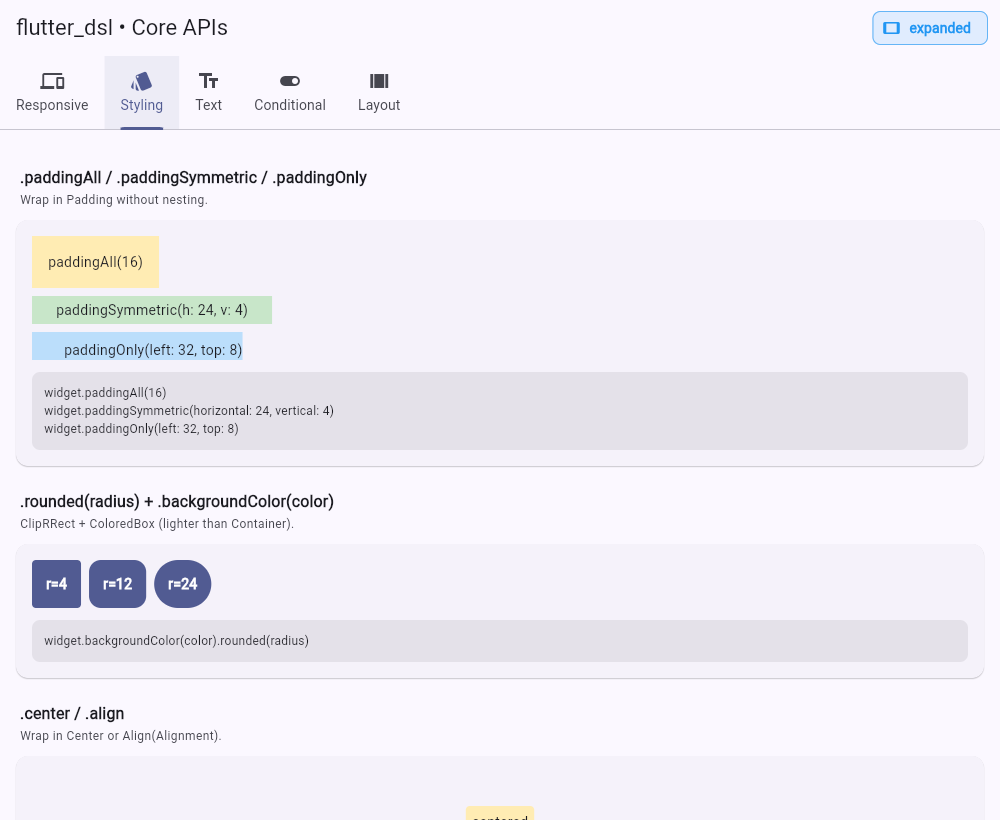
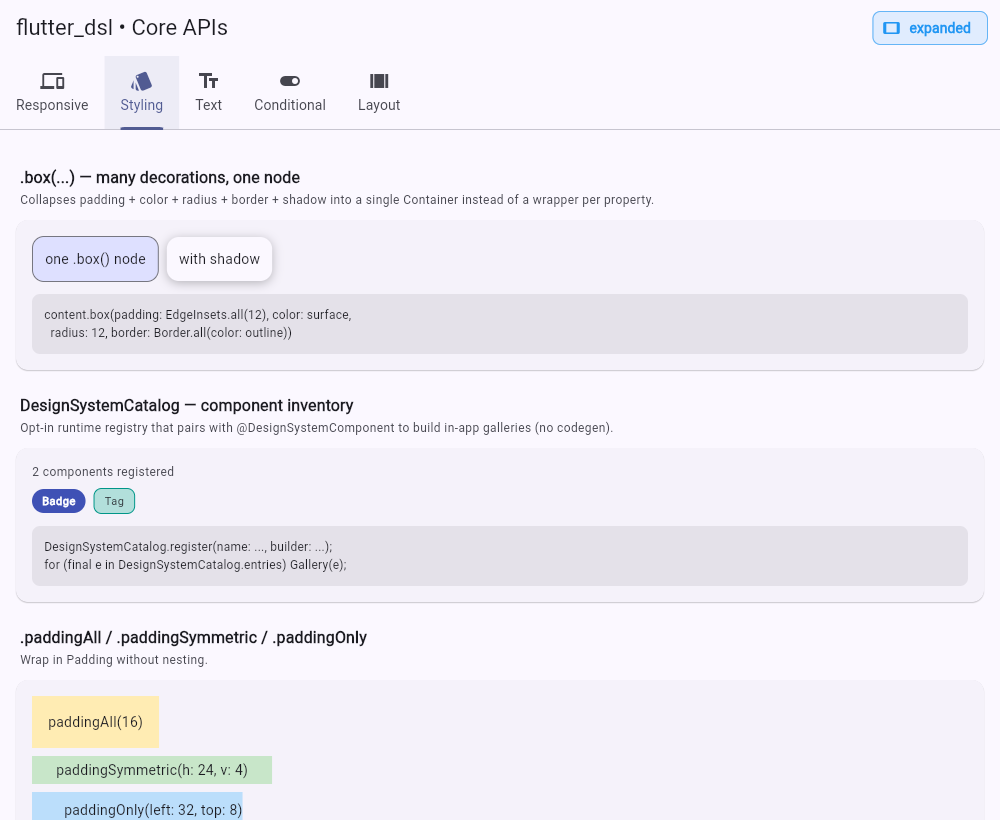
docs(example): showcase .box, design tokens, and catalog; refresh demo media
Wrap the example in DesignTokensScope and register catalog components; add demo
cards for .box(), a token+.box+Responsive.value card (visible in the GIF), and a
DesignSystemCatalog mini-gallery (visible in the Styling screenshot). Move the
"Why flutter_dsl?" section to the top and rewrite it around flutter_dsl's own
USP without naming competitors. Re-capture doc/demo.gif and doc/tab_styling.png.

diff --git a/example/lib/main.dart b/example/lib/main.dart
@@ -8,7 +8,38 @@
 import 'package:flutter/material.dart';
 import 'package:flutter_dsl/flutter_dsl.dart';
 
-void main() => runApp(const FlutterDslShowcase());
+void main() {
+  _registerShowcaseComponents();
+  runApp(const FlutterDslShowcase());
+}
+
+// Pairs with `@DesignSystemComponent`: registering components makes them
+// enumerable at runtime (e.g. to render an in-app gallery) — no codegen.
+void _registerShowcaseComponents() {
+  DesignSystemCatalog.register(
+    name: 'Badge',
+    category: 'feedback',
+    builder: (context) => 'Badge'
+        .labelSmall(context)
+        .fontWeight(FontWeight.bold)
+        .textColor(Colors.white)
+        .box(
+          padding: const EdgeInsets.symmetric(horizontal: 10, vertical: 4),
+          color: Colors.indigo,
+          radius: 999,
+        ),
+  );
+  DesignSystemCatalog.register(
+    name: 'Tag',
+    category: 'feedback',
+    builder: (context) => 'Tag'.labelSmall(context).box(
+          padding: const EdgeInsets.symmetric(horizontal: 10, vertical: 4),
+          color: Colors.teal.shade100,
+          radius: 8,
+          border: Border.all(color: Colors.teal),
+        ),
+  );
+}
 
 class FlutterDslShowcase extends StatelessWidget {
   const FlutterDslShowcase({super.key});
@@ -22,18 +53,21 @@ class FlutterDslShowcase extends StatelessWidget {
         colorScheme: ColorScheme.fromSeed(seedColor: Colors.indigo),
         useMaterial3: true,
       ),
-      // Wrap once so every descendant can call Responsive.* / .onMobile /
-      // .hideOnDesktop / .responsive / etc.
-      builder: (context, child) => ResponsiveScope(child: child!),
+      // Wrap once near the root: design tokens + the responsive scope (the
+      // single source of truth for breakpoints) for every descendant.
+      builder: (context, child) => DesignTokensScope(
+        tokens: const DesignTokens(),
+        child: ResponsiveScope(child: child!),
+      ),
       home: const ShowcasePage(),
     );
   }
 }
 
-/// `@ResponsiveView` is a declarative marker; pairing it with
-/// [ResponsiveStatelessWidget] makes the declared `breakpoints` take effect —
-/// the base class auto-wraps the subtree in a [ResponsiveScope] and forwards
-/// the current [ScreenSize] to [buildResponsive].
+/// `@ResponsiveView` is a documentation-only marker; pairing it with
+/// [ResponsiveStatelessWidget] makes the subtree resolve the current
+/// [ScreenSize] from the ambient [ResponsiveScope] (configured once at the app
+/// level) and forward it to [buildResponsive].
 @ResponsiveView()
 @DesignSystemComponent(name: 'ShowcasePage', category: 'screens')
 class ShowcasePage extends ResponsiveStatelessWidget {
@@ -194,6 +228,36 @@ class _ResponsiveTab extends StatelessWidget {
                         '/ extraLarge.')
                     .bodySmall(context),
           ),
+        ),
+        const _SectionHeader(
+          title: 'v1.1.0 · design tokens + .box + responsive',
+          description:
+              'A single .box() driven by DesignTokensScope and Responsive.value — resize to watch the token-based padding adapt.',
+        ),
+        Builder(
+          builder: (context) {
+            final t = DesignTokensScope.of(context);
+            final pad = Responsive.value(
+              context,
+              mobile: t.space.sm,
+              tablet: t.space.lg,
+              desktop: t.space.xl,
+            );
+            return _DemoCard(
+              code: 'final t = DesignTokensScope.of(context);\n'
+                  'content.box(\n'
+                  '  padding: EdgeInsets.all(Responsive.value(context,\n'
+                  '    mobile: t.space.sm, tablet: t.space.lg, desktop: t.space.xl)),\n'
+                  '  color: surface, radius: t.radius.lg)',
+              child: 'token-driven padding = $pad (resize me)'
+                  .bodyMedium(context)
+                  .box(
+                    padding: EdgeInsets.all(pad),
+                    color: Theme.of(context).colorScheme.primaryContainer,
+                    radius: t.radius.lg,
+                  ),
+            );
+          },
         ),
         const _SectionHeader(
           title: 'ResponsiveBuilder',
@@ -401,6 +465,53 @@ class _StylingTab extends StatelessWidget {
     return ListView(
       padding: const EdgeInsets.all(16),
       children: [
+        const _SectionHeader(
+          title: '.box(...) — many decorations, one node',
+          description:
+              'Collapses padding + color + radius + border + shadow into a single Container instead of a wrapper per property.',
+        ),
+        _DemoCard(
+          code: 'content.box(padding: EdgeInsets.all(12), color: surface,\n'
+              '  radius: 12, border: Border.all(color: outline))',
+          child: [
+            'one .box() node'.bodyMedium(context).box(
+                  padding: const EdgeInsets.all(12),
+                  color: Theme.of(context).colorScheme.primaryContainer,
+                  radius: 12,
+                  border:
+                      Border.all(color: Theme.of(context).colorScheme.outline),
+                ),
+            'with shadow'.bodyMedium(context).box(
+              padding: const EdgeInsets.all(12),
+              color: Theme.of(context).colorScheme.surface,
+              radius: 12,
+              boxShadow: const [
+                BoxShadow(
+                    blurRadius: 8,
+                    color: Colors.black26,
+                    offset: Offset(0, 2)),
+              ],
+            ),
+          ].row(spacing: 8, mainAxisAlignment: MainAxisAlignment.start),
+        ),
+        const _SectionHeader(
+          title: 'DesignSystemCatalog — component inventory',
+          description:
+              'Opt-in runtime registry that pairs with @DesignSystemComponent to build in-app galleries (no codegen).',
+        ),
+        _DemoCard(
+          code: 'DesignSystemCatalog.register(name: ..., builder: ...);\n'
+              'for (final e in DesignSystemCatalog.entries) Gallery(e);',
+          child: [
+            '${DesignSystemCatalog.entries.length} components registered'
+                .bodySmall(context)
+                .textColor(Theme.of(context).colorScheme.onSurfaceVariant),
+            [
+              for (final e in DesignSystemCatalog.entries)
+                Builder(builder: e.builder),
+            ].row(spacing: 8, mainAxisAlignment: MainAxisAlignment.start),
+          ].column(spacing: 8, crossAxisAlignment: CrossAxisAlignment.start),
+        ),
         const _SectionHeader(
           title: '.paddingAll / .paddingSymmetric / .paddingOnly',
           description: 'Wrap in Padding without nesting.',

diff --git a/README.md b/README.md
@@ -8,6 +8,18 @@
 
 ---
 
+## 🤔 Why flutter_dsl?
+
+An **internal DSL for Flutter** that optimizes for everyday developer experience: responsive layout, design tokens, and styling chains in **one cohesive, codegen-free package** aligned to **Material 3 windowing**.
+
+- **One toolkit, not five.** Responsive branching, a Material 3 `ScreenSize` enum, design tokens (spacing/radius + theme text), and chainable styling — all from a single import, designed to work together.
+- **No `build_runner`, no `dart:mirrors`.** Everything runs on const annotations and a runtime `InheritedWidget`. Nothing to generate, no pipeline to maintain.
+- **Material 3 windowing, first-class.** `ScreenSize { compact, medium, expanded, large, extraLarge }` is an exhaustive enum — the compiler won't let you forget a bucket.
+- **Single source of truth.** Configure breakpoints and design tokens once at the app root; every widget below reads them.
+- **Shallow trees by default.** `.box(...)` collapses several decorations into one node, and `Responsive.value(...)` adds zero wrappers on hot paths.
+
+---
+
 ## 🎬 Demo
 
 ![flutter_dsl responsive layout demo](https://raw.githubusercontent.com/hardy716/flutter_dsl/master/doc/demo.gif)
@@ -36,22 +48,6 @@ v1.0 is a **major pivot** from the 0.1.x line. The previous "declarative UI help
 - **No `build_runner`, no `dart:mirrors`** — everything runs through const annotations + a runtime `InheritedWidget`.
 
 0.1.x APIs that conflict with the v1.0 direction are **deprecated** (still work, marked with `@Deprecated`) and will be removed in v2.0. See the migration table below.
-
----
-
-## 🤔 Why flutter_dsl?
-
-`flutter_dsl` is an **internal DSL for Flutter** focused on everyday developer experience: it bundles **responsive layout**, **design tokens**, and **styling chains** into one cohesive, **codegen-free** package aligned to **Material 3 windowing**. No `build_runner`, no `dart:mirrors` — just const annotations and a runtime `InheritedWidget`.
-
-| | flutter_dsl | styled_widget / velocity_x | responsive_framework / sizer |
-|---|:---:|:---:|:---:|
-| Styling chains | ✅ | ✅ | — |
-| Responsive, Material 3 buckets | ✅ `ScreenSize` enum | — | ✅ (own model) |
-| Design tokens (spacing/radius + theme text) | ✅ | — | — |
-| Code generation required | none | none | none |
-| One cohesive toolkit | ✅ | styling only | responsive only |
-
-If you want a *single* dependency covering responsive + tokens + styling with an exhaustive Material 3 `ScreenSize` enum and zero codegen, that is the niche flutter_dsl fills. If you only need deep styling helpers, `styled_widget` / `velocity_x` go further there; if you only need responsive routing, `responsive_framework` is more mature. flutter_dsl deliberately optimizes for *cohesion and DX*, not maximal coverage of any single axis.
 
 ---
 
